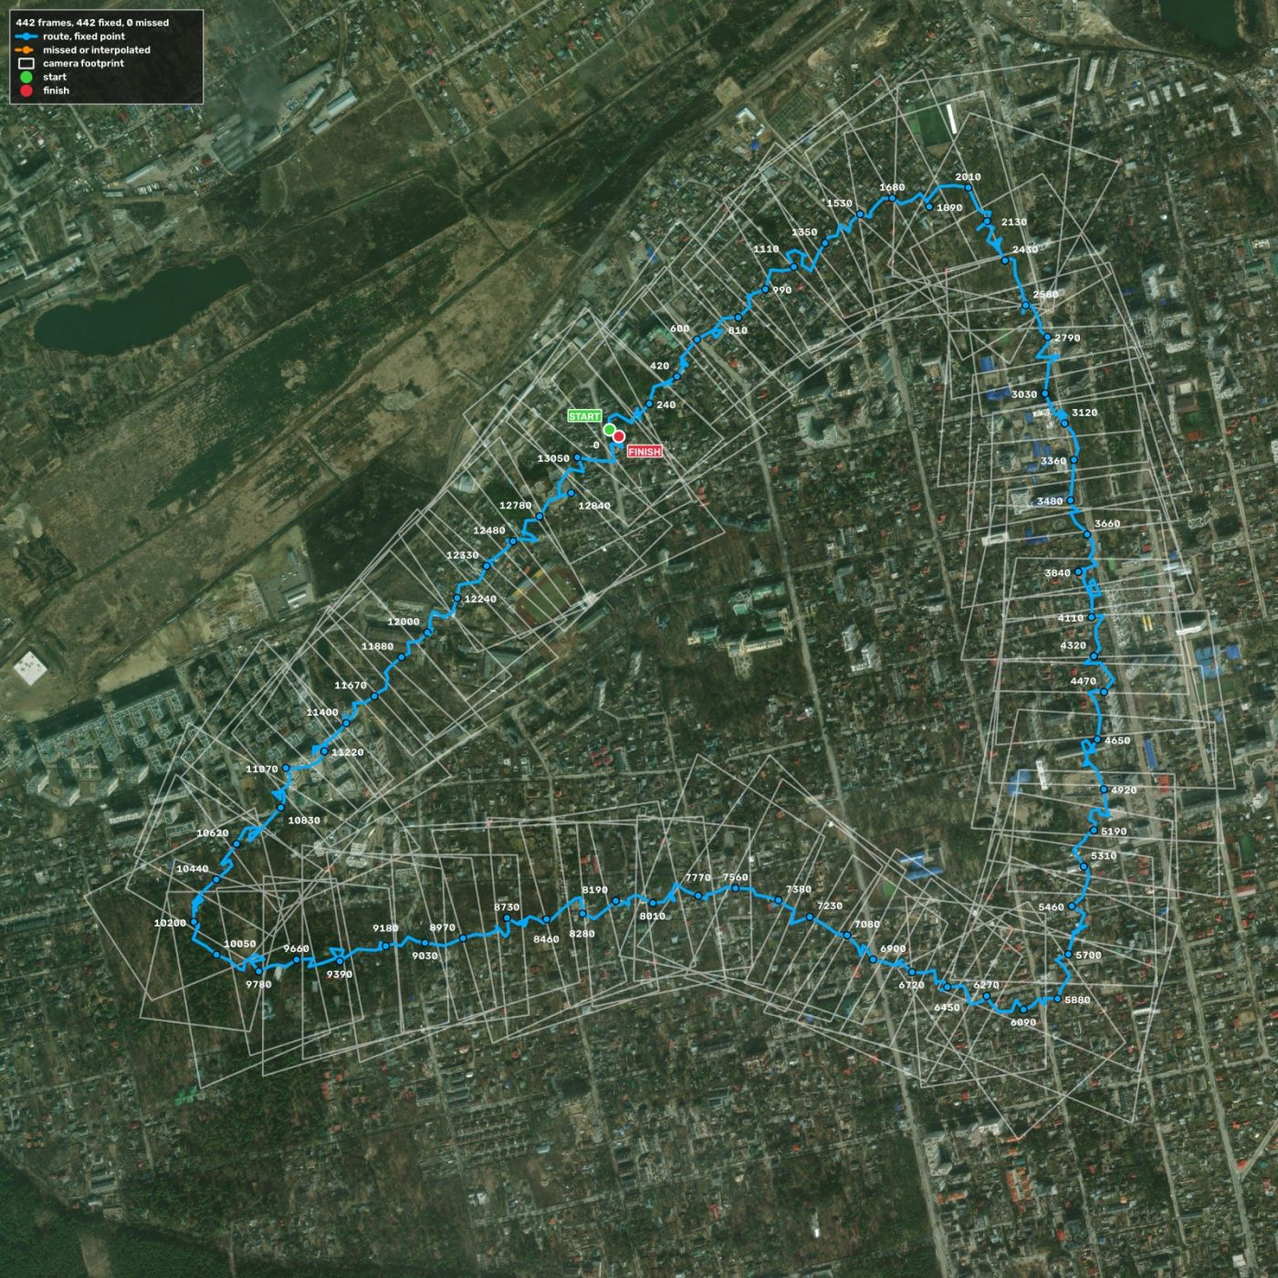
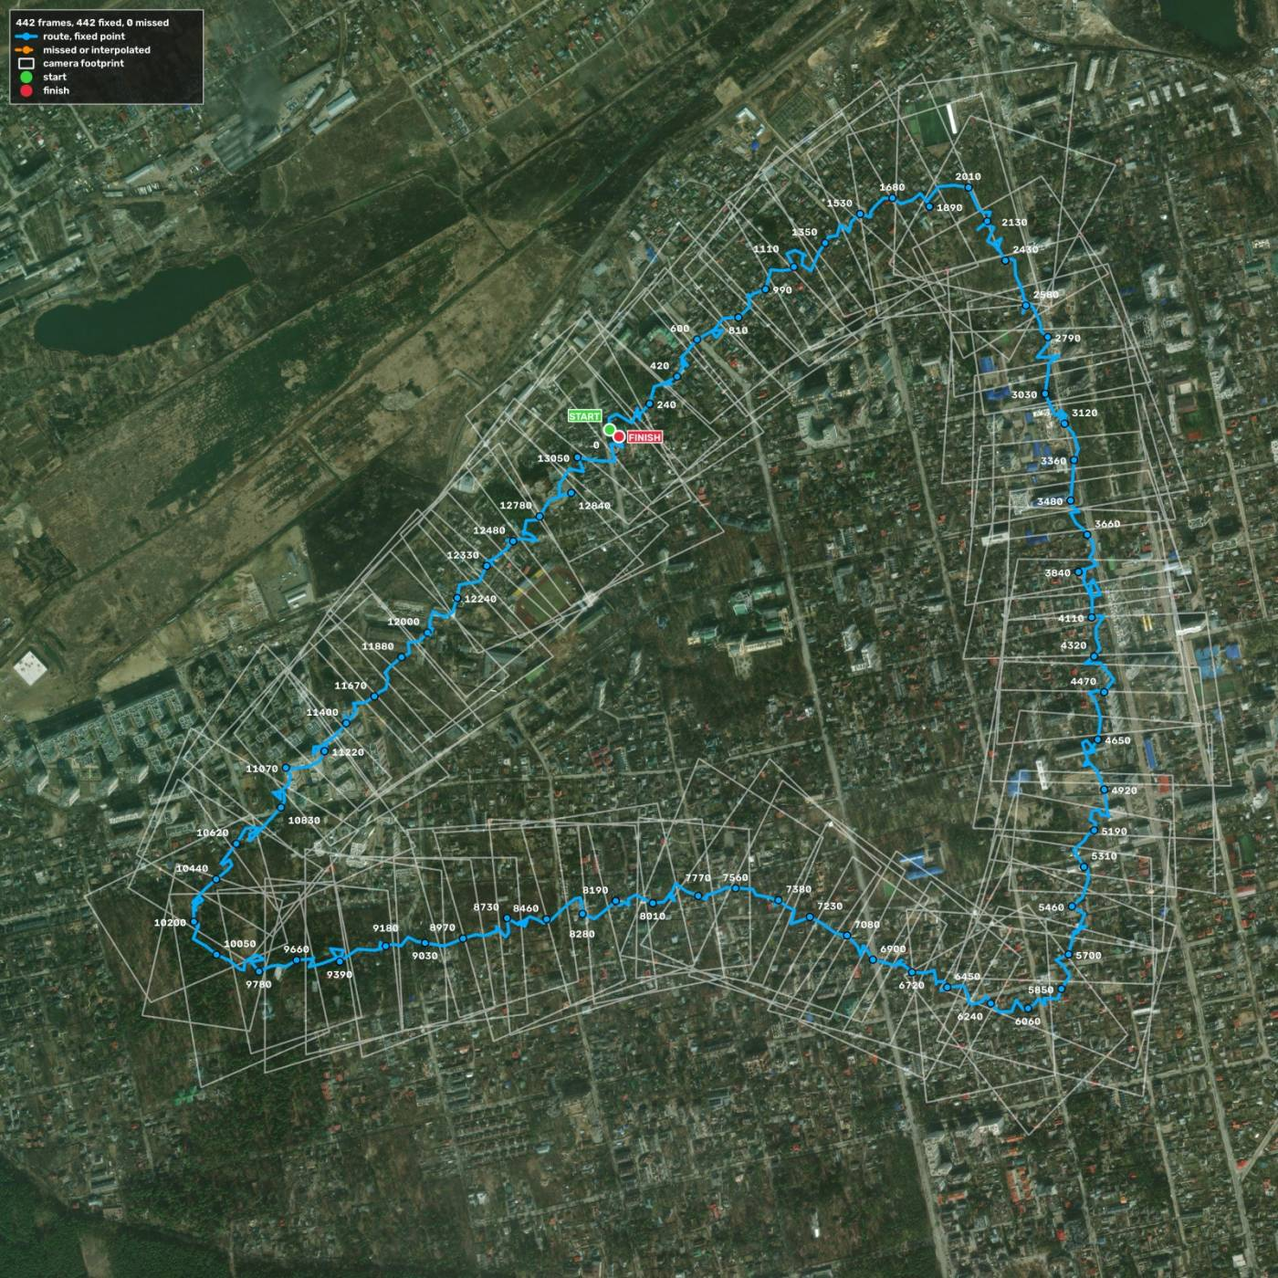
M1-11: README v1 for today's code: tracker, video, XFeat, console, numbers measured again, result image from a fresh run

Changed region(s): [[0.0921, 0.0307, 0.9829, 0.8907]]

diff --git a/README.md b/README.md
@@ -7,60 +7,67 @@
 A drone has lost GPS. It still has a camera and a satellite map. Orientyr matches each camera frame to the map
 and gets back the drone's position, heading and route.
 
-Built for the Spectron hackathon (IT-JIM task). The task gives one satellite map and 50 drone frames in flight
-order. The frames are rotated and have a different scale than the map. The program must draw the route on the map
-and make a video with the drone's position.
+Built for the Spectron hackathon (IT-JIM task, advanced level). The task gives one satellite map and 50 drone
+frames in flight order. The frames are rotated and have a different scale than the map. The program must draw the
+route on the map and make a video with the drone's position.
 
 This is README v1. It describes what the code does today. Things that are not built yet are marked **planned**.
 Contributors: the team workflow (tasks, branches, PRs) is in [AGENTS.md](AGENTS.md).
 
 ## Approach
 
-Each frame goes through the same steps. A fix (an accepted position) from one frame tells the next frame where to
-look and how much to shrink.
+Each frame goes through the same steps. A tracker keeps the drone's position and speed between frames. It tells
+the next frame where to look on the map, and it decides when the track is lost.
 
 ```mermaid
 flowchart TD
     M["Satellite map"] --> MF["Map features: SIFT keypoints, RootSIFT descriptors<br/>computed once, cached in outputs/cache"]
-    F["Frames folder<br/>read in frame-number order"] --> S["Shrink the frame<br/>one frame pixel = 0.65 map pixels"]
-    S --> W{"Is there a fix<br/>from the last frame?"}
+    F["Frames folder, in frame-number order<br/>or a video, every N-th frame"] --> S["Shrink the frame<br/>one frame pixel = 0.65 map pixels"]
+    S --> W{"Does the tracker<br/>have a track?"}
     W -- "yes" --> WIN["Match in a window<br/>around the predicted position"]
-    W -- "no" --> GLO["Match on the whole map"]
+    W -- "no: first frame, or LOST" --> GLO["Match on the whole map"]
     MF --> WIN
     MF --> GLO
-    WIN --> H["Homography with MAGSAC++<br/>then 7 sanity checks"]
+    WIN --> H["Homography with MAGSAC++<br/>then 8 sanity checks"]
     GLO --> H
     H -- "window failed" --> GLO
-    H -- "accepted" --> P["Pose: x, y in map pixels, heading,<br/>scale, footprint, inliers"]
-    H -- "rejected" --> L["No fix: state LOST<br/>position coasts, then holds"]
-    P -. "next window and next scale" .-> S
-    P --> T["run.json + run.jsonl<br/>one record per frame"]
-    L --> T
+    H -- "accepted" --> P["Fix: x, y in map pixels, heading,<br/>scale, tilt, footprint, inliers"]
+    H -- "rejected" --> NF["No fix for this frame"]
+    P --> K["Tracker: Kalman filter + states<br/>TRACKING, LOST, RELOCALIZING"]
+    NF --> K
+    K -. "predicted position, next window and scale" .-> S
+    K --> T["run.json + run.jsonl<br/>one record per frame"]
     T --> IMG["trajectory.png<br/>trajectory_preview.jpg"]
     T --> VID["trajectory.mp4"]
 ```
 
 The steps, with the file that does each one:
 
-1. **Read** ([src/dronenav/io.py](src/dronenav/io.py)). Frames are sorted by the last number in the file name,
-   so `crop_2.png` comes before `crop_10.png`.
+1. **Read** ([src/dronenav/io.py](src/dronenav/io.py), [src/dronenav/video.py](src/dronenav/video.py)). Frames
+   are sorted by the last number in the file name, so `crop_2.png` comes before `crop_10.png`. A video is sampled
+   every N-th frame. If the flight has a `meta.json` with a camera block, the lens distortion is removed first.
 2. **Shrink** ([src/dronenav/scale.py](src/dronenav/scale.py)). A frame shows more detail than the map has. The
-   extra pixels only cost time, so the frame is made smaller first. The scale comes from the last fix. With no
-   fix yet, three sizes are tried and the one with the most inliers wins.
+   extra pixels only cost time, so the frame is made smaller first. The scale comes from the last fix (an accepted
+   position). With no fix yet, three sizes are tried and the one with the most inliers wins.
 3. **Match** ([src/dronenav/matching/rootsift.py](src/dronenav/matching/rootsift.py)). SIFT keypoints with
    RootSIFT descriptors, FLANN nearest neighbours, Lowe's ratio test (0.8). The map's features are computed once
-   and saved to disk.
+   and saved to disk. A second matcher, XFeat (a small neural network), is behind the same interface:
+   `--matcher xfeat`.
 4. **Search** ([src/dronenav/search.py](src/dronenav/search.py)). The first frame is matched to the whole map.
-   After a fix, the next frame is matched only to a window around the predicted position. If the window fails,
-   the whole map is tried again in the same frame.
+   After that, a frame is matched only to a window around the position the tracker predicts. The window is wide
+   when the tracker is unsure and narrow when it is sure. If the window fails, the whole map is tried again in the
+   same frame.
 5. **Fit and check** ([src/dronenav/geometry.py](src/dronenav/geometry.py)). MAGSAC++ fits a homography (a
-   3 × 3 matrix that maps frame pixels to map pixels). Seven checks reject a wrong one: degenerate, too few
-   inliers (under 15), not convex, mirrored, scale out of range, stretched, high reprojection error.
+   3 × 3 matrix that maps frame pixels to map pixels). Eight checks reject a wrong one: degenerate, too few
+   inliers (under 15), not convex, mirrored, scale out of range, stretched, impossible perspective, high
+   reprojection error.
 6. **Pose.** The frame centre on the map is the position. The rotation gives the heading. The four warped corners
-   give the footprint (the ground the camera sees).
-7. **State** ([src/dronenav/pipeline.py](src/dronenav/pipeline.py)). Every frame gets a state: `TRACKING`,
-   `LOST` or `RELOCALIZING` (the first fix after a loss). A lost frame keeps moving with the last speed for at
-   most 5 seconds, then holds.
+   give the footprint (the ground the camera sees). The homography also gives the camera's tilt.
+7. **Track** ([src/dronenav/tracking/kalman.py](src/dronenav/tracking/kalman.py),
+   [src/dronenav/tracking/states.py](src/dronenav/tracking/states.py)). A Kalman filter keeps position and
+   speed. It refuses a fix that is too far from its prediction, and it coasts (flies on with the last speed) when
+   there is no fix. Every frame gets a state: `TRACKING`, `LOST` (after 3 misses in a row) or `RELOCALIZING` (a
+   fix after a loss, waiting for a second fix that agrees).
 8. **Draw** ([src/dronenav/viz/](src/dronenav/viz)). The route image and the video are drawn from the run
    folder, so they can be drawn again without matching again.
 
@@ -68,14 +75,17 @@ The steps, with the file that does each one:
 
 | Part | Status |
 |---|---|
-| Frames from a folder, RootSIFT matcher, scale rule, window search, homography checks, route image, video | built, used by `scripts/run.py` |
-| Gap interpolation and smoothing ([src/dronenav/smoothing.py](src/dronenav/smoothing.py)) | built and tested, not used by `scripts/run.py` yet |
-| Per-fix confidence ([src/dronenav/confidence.py](src/dronenav/confidence.py)) | built and tested, not used by `scripts/run.py` yet |
-| Video reader ([src/dronenav/video.py](src/dronenav/video.py)) | built and tested, but `scripts/run.py --video` is **planned**: today it stops with an error |
-| Learned matchers (SuperPoint + LightGlue) | **planned**. `--matcher` accepts only `sift` today. `torch`, `kornia` and `lightglue` are installed for this step |
-| Kalman filter | **planned**. Today the state logic in step 7 does this job |
-| Our own phone video filmed over the map (advanced level) | **planned** |
-| Accuracy benchmark with ground truth | **planned** (M1-10) |
+| Frames from a folder or a video, RootSIFT matcher, scale rule, window search, homography checks, Kalman tracker with states, route image, video | built, used by `scripts/run.py` |
+| XFeat matcher ([src/dronenav/matching/xfeat.py](src/dronenav/matching/xfeat.py)) | built, `scripts/run.py --matcher xfeat`. RootSIFT stays the default |
+| Per-fix confidence ([src/dronenav/confidence.py](src/dronenav/confidence.py)) | built, used by the tracker and the HUD video |
+| Accuracy against ground truth ([scripts/accuracy.py](scripts/accuracy.py)) | built, see [Numbers](#numbers) |
+| HUD ("mission control") video ([src/dronenav/viz/hud_video.py](src/dronenav/viz/hud_video.py)) | built, a second step: `scripts/render_video.py` |
+| Console in the browser ([ui/](ui)) | built, replays a run folder, see [Console](#console) |
+| Frame preprocessing, CLAHE ([src/dronenav/preprocess.py](src/dronenav/preprocess.py)) | built and measured, not used by `scripts/run.py` yet |
+| Offline smoother and gap interpolation ([src/dronenav/tracking/smoother.py](src/dronenav/tracking/smoother.py), [src/dronenav/smoothing.py](src/dronenav/smoothing.py)) | built and tested, not used by `scripts/run.py` yet |
+| GPS spoof detector, MAVLink output | built as separate scripts (`scripts/spoof_check.py`, `scripts/mavlink_log.py`), see [Notes](#notes) |
+| SuperPoint + LightGlue matcher | **planned**. The `lightglue` package is installed for this step |
+| Our own phone video filmed over the map (advanced level) | `scripts/run.py --video` is built. The take itself is **planned**: it is not filmed yet |
 
 ## Install
 
@@ -83,7 +93,8 @@ You need:
 
 - **Python 3.11** or newer (tested on 3.13 on macOS and on 3.11 in Linux CI);
 - `git` (one package is installed from GitHub);
-- 1 to 3 GB of free disk space, most of it for `torch` (about 1 GB on macOS).
+- about 1.5 GB of free disk space on macOS: the virtual environment is 1.3 GB, most of it `torch`. On Linux with
+  the CUDA build of `torch` it is several GB (see below for the small CPU build).
 
 You do not need to install ffmpeg. The video encoder comes with the `imageio-ffmpeg` package.
 
@@ -108,6 +119,14 @@ export PIP_EXTRA_INDEX_URL=https://download.pytorch.org/whl/cpu
 
 Every time you open a new terminal, run `source .venv/bin/activate` again. The commands below were run on macOS
 and Linux. On Windows use WSL, because the tools in `tools/` are bash scripts.
+
+Check the install without any data. This makes a fake run folder (no matching) over a small map crop that is in the repo, and
+draws its route:
+
+```bash
+python scripts/fake_run.py --map tests/fixtures/irpin_mild_2025/map_crop.jpg --out outputs/fake
+python scripts/render_image.py --run outputs/fake
+```
 
 ## Getting the data
 
@@ -136,7 +155,9 @@ tools/data.sh pull hackatons-data
 ```
 
 `tools/data.sh setup` opens a browser once to log in to Google. `tools/data.sh pull` without a path downloads
-everything, including our own Irpin data (several GB). On Linux, install rclone from <https://rclone.org/install/>.
+everything, including our own Irpin data (several GB). `tools/data.sh pull irpin/maps` and
+`tools/data.sh pull irpin/flights/mild/2022` get only what the Irpin examples below use. On Linux, install rclone
+from <https://rclone.org/install/>.
 
 Check the result:
 
@@ -159,22 +180,31 @@ python scripts/run.py --map data/hackatons-data/global_map.png --frames data/hac
 It prints one line at the end:
 
 ```text
-run: 50 of 50 frames localized in 22.0 s -> outputs/run1 (trajectory.png, trajectory.mp4)
+run: 50 of 50 frames localized in 13.2 s -> outputs/run1 (trajectory.png, trajectory.mp4)
 ```
 
-The first run on a map is slower, because it computes the map's features and saves them in `outputs/cache`
-(about 80 MB for the task map). Later runs on the same map load them.
+The first run on a map computes the map's features and saves them in `outputs/cache` (about 75 MB for the task
+map). Later runs on the same map load them.
 
 Your own data works the same way: `--map` is any map image, `--frames` is a folder of images with numbers in
-their names. Useful options:
+their names. More examples:
 
 ```bash
-python scripts/run.py --map data/hackatons-data/global_map.png --frames data/hackatons-data/crops --out outputs/fast --speed 5
+python scripts/run.py --map data/irpin/maps/irpin_2022.png --frames data/irpin/flights/mild/2022/frames --out outputs/irpin
+python scripts/run.py --map data/irpin/maps/irpin_2022.png --video data/irpin/flights/mild/2022/flight.mp4 --every 30 --out outputs/video
+python scripts/run.py --map data/irpin/maps/irpin_2022.png --frames data/irpin/flights/mild/2022/frames --out outputs/jam --jam 150:30
 python scripts/run.py --help
 ```
 
-`--speed 5` makes the video five times faster (about 11 seconds instead of 50). `--fps` says how many frames one second
-of flight has (default 1). `--cache` moves the feature cache. `--video` is planned and stops with an error today.
+- `--video` reads a video file instead of a folder. `--every 30` takes every 30th frame. Without `--every`, about
+  3 frames per second of video are taken. The sampled frames are saved in `frames/` in the run folder.
+- `--jam 150:30` is a stress test: from second 150 of the flight the camera is jammed for 30 seconds (the engine
+  gets noise). The run shows the track lost and found again.
+- `--matcher xfeat` uses the XFeat matcher. It downloads its weights (about 6 MB) on the first run.
+- `--tracker none` turns the Kalman tracker off and keeps the raw fixes.
+- `--fps` says how the numbers in the frame names become seconds (time = number / fps). The default comes from
+  `meta.json` next to the frames, else 1.
+- `--speed 5` makes the video five times faster than the flight. `--cache` moves the feature cache.
 
 Exit code 0 means success. Code 1 means that no frame was found on the map (wrong map?). Code 2 means a bad path
 or option. On an error, the output folder stays as it was.
@@ -188,8 +218,10 @@ or option. On an error, the output folder stays as it was.
 | `trajectory.png` | The map at full size with the route, numbered points, footprints, START and FINISH |
 | `trajectory_preview.jpg` | The same picture, 1600 px wide, easy to open and share |
 | `trajectory.mp4` | Video (1280 × 720, H.264): a camera follows the drone over the map, with the trail, the footprint, the frame the drone saw, and a HUD (frame number, time, inliers, state) |
-| `run.jsonl` | One line of JSON per frame: position, heading, scale, footprint, inliers, state, time spent |
+| `run.jsonl` | One line of JSON per frame: state, filtered position and speed, the fix (homography, heading, scale, footprint, inliers), time spent |
 | `run.json` | Which map and which frames the run used |
+
+A run from a video, or with `--jam`, also gets a folder `frames/` with the frames the engine saw.
 
 `run.json` and `run.jsonl` point to the map and the frames by relative path. Do not move the run folder or the
 data if you want to draw the image or the video again.
@@ -198,56 +230,95 @@ To draw again without matching again:
 
 ```bash
 python scripts/render_image.py --run outputs/run1
-python scripts/render_video.py --run outputs/run1 --speed 5
+python scripts/render_video.py --run outputs/run1 --out outputs/run1_hud --speed 5
+python scripts/render_video.py --run outputs/run1 --style classic
 ```
+
+`scripts/render_video.py` draws the HUD video by default: the "mission control" screen with the trail coloured
+by confidence, match lines, a side panel and a timeline (see [HUD video](#hud-video-m7-02)). `--style classic` is
+the plain video that `scripts/run.py` writes. Without `--out`, the new `trajectory.mp4` replaces the one in the
+run folder.
 
 Everything in `outputs/` is ignored by git.
 
 ## Result
 
 Our own showcase flight: a simulated drone flight over Irpin, Ukraine, rendered from satellite imagery of 2022
-(7 min 22 s of video, one keyframe per second). The engine localized 442 of 442 keyframes in 189 s on an Apple M5
-laptop. Blue line: the route. White boxes: what the camera saw. Numbers: frame numbers in the video.
+(7 min 22 s of video, one keyframe per second). The engine localized 442 of 442 keyframes in 205 s on an
+Apple M5 laptop. Blue line: the route. White boxes: what the camera saw. Numbers: frame numbers in the video.
 
 ![The route of the Irpin showcase flight on the satellite map, with numbered points, START and FINISH](results/m1-11/trajectory_irpin.jpg)
 
-This is `trajectory_preview.jpg` of a run with `--map data/irpin/maps/irpin_2022.png` and
-`--frames data/irpin/flights/mild/2022/frames`, made smaller for the README.
+This is `trajectory_preview.jpg` of the first Irpin command in [Run](#run), made smaller for the README.
 
 ## Numbers
 
-Measured for this README with the command in [Run](#run), on the task data. One run each on an Apple M5 laptop,
-Python 3.13. This is a smoke check, not a benchmark.
+### Accuracy (from M1-10)
+
+How far each position is from the ground truth, measured with [scripts/accuracy.py](scripts/accuracy.py). The
+Irpin flights have exact truth from the renderer. The task crops are checked against `probe.json`, a careful
+full-resolution fit that is in the repo.
+
+- **Localized:** the frame got an accepted fix.
+- **Wrong:** accepted, but more than 10 px from the truth.
+- **Error:** in map pixels. One Irpin map pixel is 0.76 m on the ground.
+
+Measured again for this README on today's code (21 Nov 2026, Apple M5 laptop, Python 3.13):
+
+| sequence | map | frames | localized | wrong | error px median / p95 / max |
+|---|---|---|---|---|---|
+| Task crops | task | 50 | 50 | 0 | 0.59 / 0.79 / 0.92 |
+| Irpin mild 2022 | 2022 | 442 | 442 | 0 | 0.66 / 0.79 / 0.87 |
+
+The task row needs one remark. `probe.json` uses another pixel convention than the engine does since M1-12 (pixel
+centres against pixel corners), so about 0.5 px of every task error is a constant offset between the two, not a
+real error. With the offset taken out, the scatter is 0.25 px median and 0.47 px max
+([tests/test_accuracy.py](tests/test_accuracy.py)).
+
+```bash
+python scripts/accuracy.py --run outputs/run1 --truth experiments/data_probe/results/probe.json
+python scripts/accuracy.py --run outputs/irpin --truth data/irpin/flights/mild/2022
+```
+
+The full M1-10 table (four flights, three map years, and the stale-map problem) is in the note
+[Accuracy (M1-10)](#accuracy-m1-10). It was recorded on 21 Nov 2026 before M1-12 and is quoted there as it was
+recorded. In short: on a map of the same year, every frame of every flight was found, with no wrong fix and a
+median error under 1 px (under 0.6 m). On a map three years newer than the imagery, only a third of the frames
+were found.
+
+### Speed
+
+The command in [Run](#run) on the task data. One run each on an Apple M5 laptop, Python 3.13. This is a smoke
+check, not a benchmark.
 
 | What | Value |
 |---|---|
 | Frames localized | 50 of 50 |
 | Frames in state `LOST` | 0 |
-| Whole command, first run (map features computed) | 22.0 s |
-| Whole command, second run (map features from the cache) | 14.3 s |
-| Matching only, per frame (median) | 50 ms |
-| Matching only, first frame (whole map, three sizes tried) | 1.2 s |
+| Whole command, first run (map features computed) | 13.2 s |
+| Whole command, second run (map features from the cache) | 13.5 s |
+| Matching only, per frame (median) | 68 ms |
+| Matching only, first frame (whole map, three sizes tried) | 1.1 s |
 | Search used | whole map: 1 frame, window: 49 frames |
-| Inliers per frame | median 318, lowest 129 |
+| Inliers per frame | median 293, lowest 129 |
 
-Most of the time in the second run is drawing: the video alone takes about 8.5 s.
+Most of the time is drawing the image and the video, not matching.
 
-**Accuracy numbers: to be added by M1-10.** "Localized" above means that the homography passed the checks. It does
-not yet mean that the position was compared with ground truth. M1-10 will do that.
-
-Earlier measurements of single parts (the scale rule, the search, the confidence) are in the
+Measurements of single parts (the scale rule, the search, the confidence, the tracker, XFeat) are in the
 [notes](#notes) at the end.
 
 ## Tests
 
 ```bash
 tools/task.sh test
+tools/task.sh test --full
 ruff check .
 ```
 
-`tools/task.sh test` runs pytest on `tests/` with the right import path. The suite needs no data and no network,
-and runs on the CPU in one to two minutes. Tests that need the full dataset are skipped when `data/` is not there.
-`ruff check .` is the linter. CI runs both on every pull request.
+`tools/task.sh test` runs pytest on `tests/` with the right import path, in parallel. It needs no data and no
+network, runs on the CPU, and takes about three and a half minutes on a laptop (1637 tests in 204 s on an Apple M5). `--full` adds the tests
+that need the full dataset. They are skipped when `data/` is not there. `ruff check .` is the linter. CI runs the
+fast suite and the linter on every pull request.
 
 To run one file: `tools/task.sh test tests/test_geometry.py`.
 
@@ -255,19 +326,25 @@ To run one file: `tools/task.sh test tests/test_geometry.py`.
 
 ```text
 src/dronenav/        the package
-  io.py                frames from a folder, the map
+  io.py, video.py      frames from a folder or a video, the map
+  camera.py            lens undistortion
   scale.py             how much to shrink a frame
-  matching/            RootSIFT matcher (more matchers: planned)
+  matching/            RootSIFT and XFeat matchers
   search.py            window or whole map
   geometry.py          homography, checks, pose
+  confidence.py        how sure a fix is
+  tracking/            Kalman filter, tracker states, offline smoother, GPS spoof detector
   pipeline.py          the steps wired together, the run folder
   telemetry.py         run.json and run.jsonl
-  viz/                 route image and video
-  smoothing.py, confidence.py, video.py    built, not used by run.py yet
+  accuracy.py          error against ground truth
+  viz/                 route image, plain video, HUD video
+  preprocess.py, smoothing.py    built, not used by run.py yet
+  mavlink.py, georef.py          fixes as MAVLink GPS_INPUT messages (a stub)
   sim/                 synthetic flights and "chaos" (blur, noise, dropped frames) for tests
-scripts/             command-line tools: run.py, render_image.py, render_video.py, check_data.py, ...
+scripts/             command-line tools: run.py, render_image.py, render_video.py, accuracy.py, check_data.py, ...
 tools/               data.sh (data from the Drive), task.sh (team workflow and tests)
 tests/               the test suite, with small fixtures in tests/fixtures/
+ui/                  the console: a Next.js app that replays a run folder
 results/             small curated images used in this README
 experiments/         one-off research scripts, kept for the record
 data/                the data (not in git)
@@ -276,8 +353,18 @@ outputs/             what the scripts write (not in git)
 
 ## Console
 
-A "mission control" console is **planned** (M7-01): a Next.js app in `ui/` that replays a run folder in the browser.
-It is not in this branch yet.
+A "mission control" console in the browser replays a run folder: the map, the route coloured by confidence, the
+camera frame, the tracker state and a mission log. It is a Next.js app in `ui/` and needs Node.js 20 or newer.
+Details: [ui/README.md](ui/README.md).
+
+```bash
+cd ui
+npm install
+npm run dev
+```
+
+Open <http://localhost:3000>. It lists every run folder in `outputs/`. Pick one in the **Run** list at the top of
+the map, or open `http://localhost:3000/?run=run1`.
 
 ## Notes
 
@@ -485,6 +572,12 @@ must reach about 3.7 σ of 3 m before a frame counts. The simulated noise is whi
 drifts, which this table does not test.
 
 ### Accuracy (M1-10)
+
+**This table was recorded on 21 Nov 2026, before M1-12** changed the engine's pixel convention (matcher points in
+corner-origin pixels). It is kept as it was recorded. Two rows were measured again on the code after M1-12 and are
+in [Numbers](#numbers): the task crops (0.59 / 0.79 / 0.92 px, of which about 0.5 px is the constant offset to
+`probe.json`'s own convention) and Irpin mild 2022 on the 2022 map (0.66 / 0.79 / 0.87 px, 442 of 442, no wrong
+fix). The other rows were not measured again.
 
 Every frame's position against the truth, measured with
 [scripts/accuracy.py](scripts/accuracy.py) ([src/dronenav/accuracy.py](src/dronenav/accuracy.py)) on the
